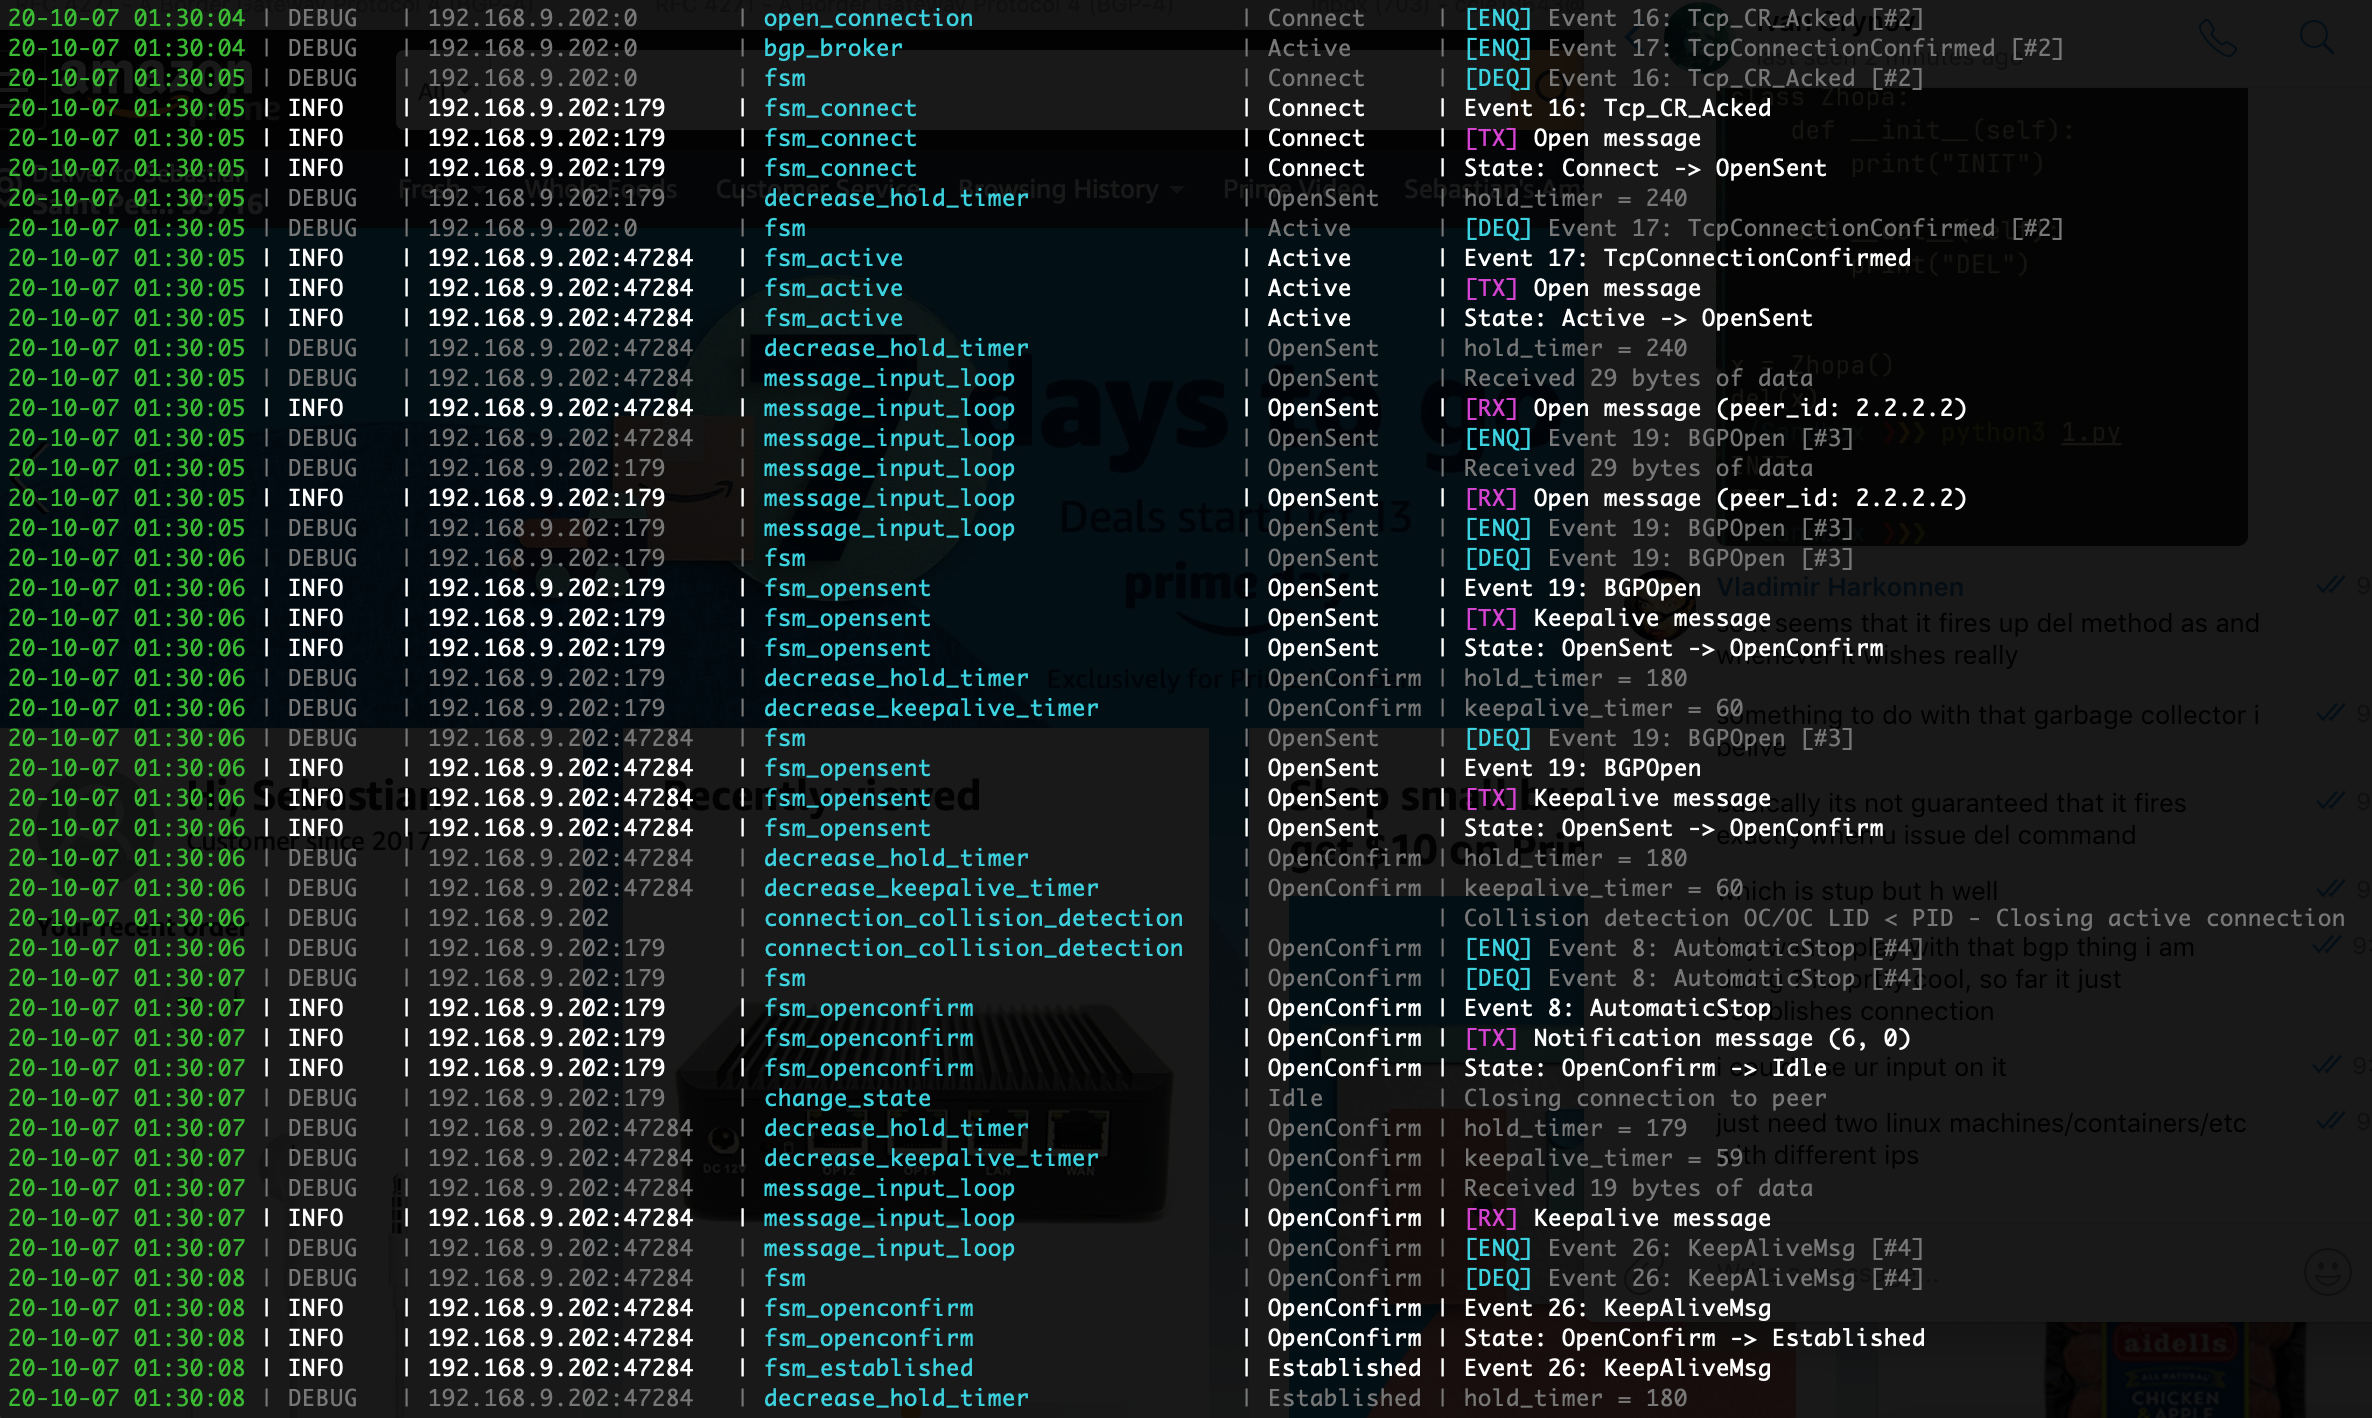
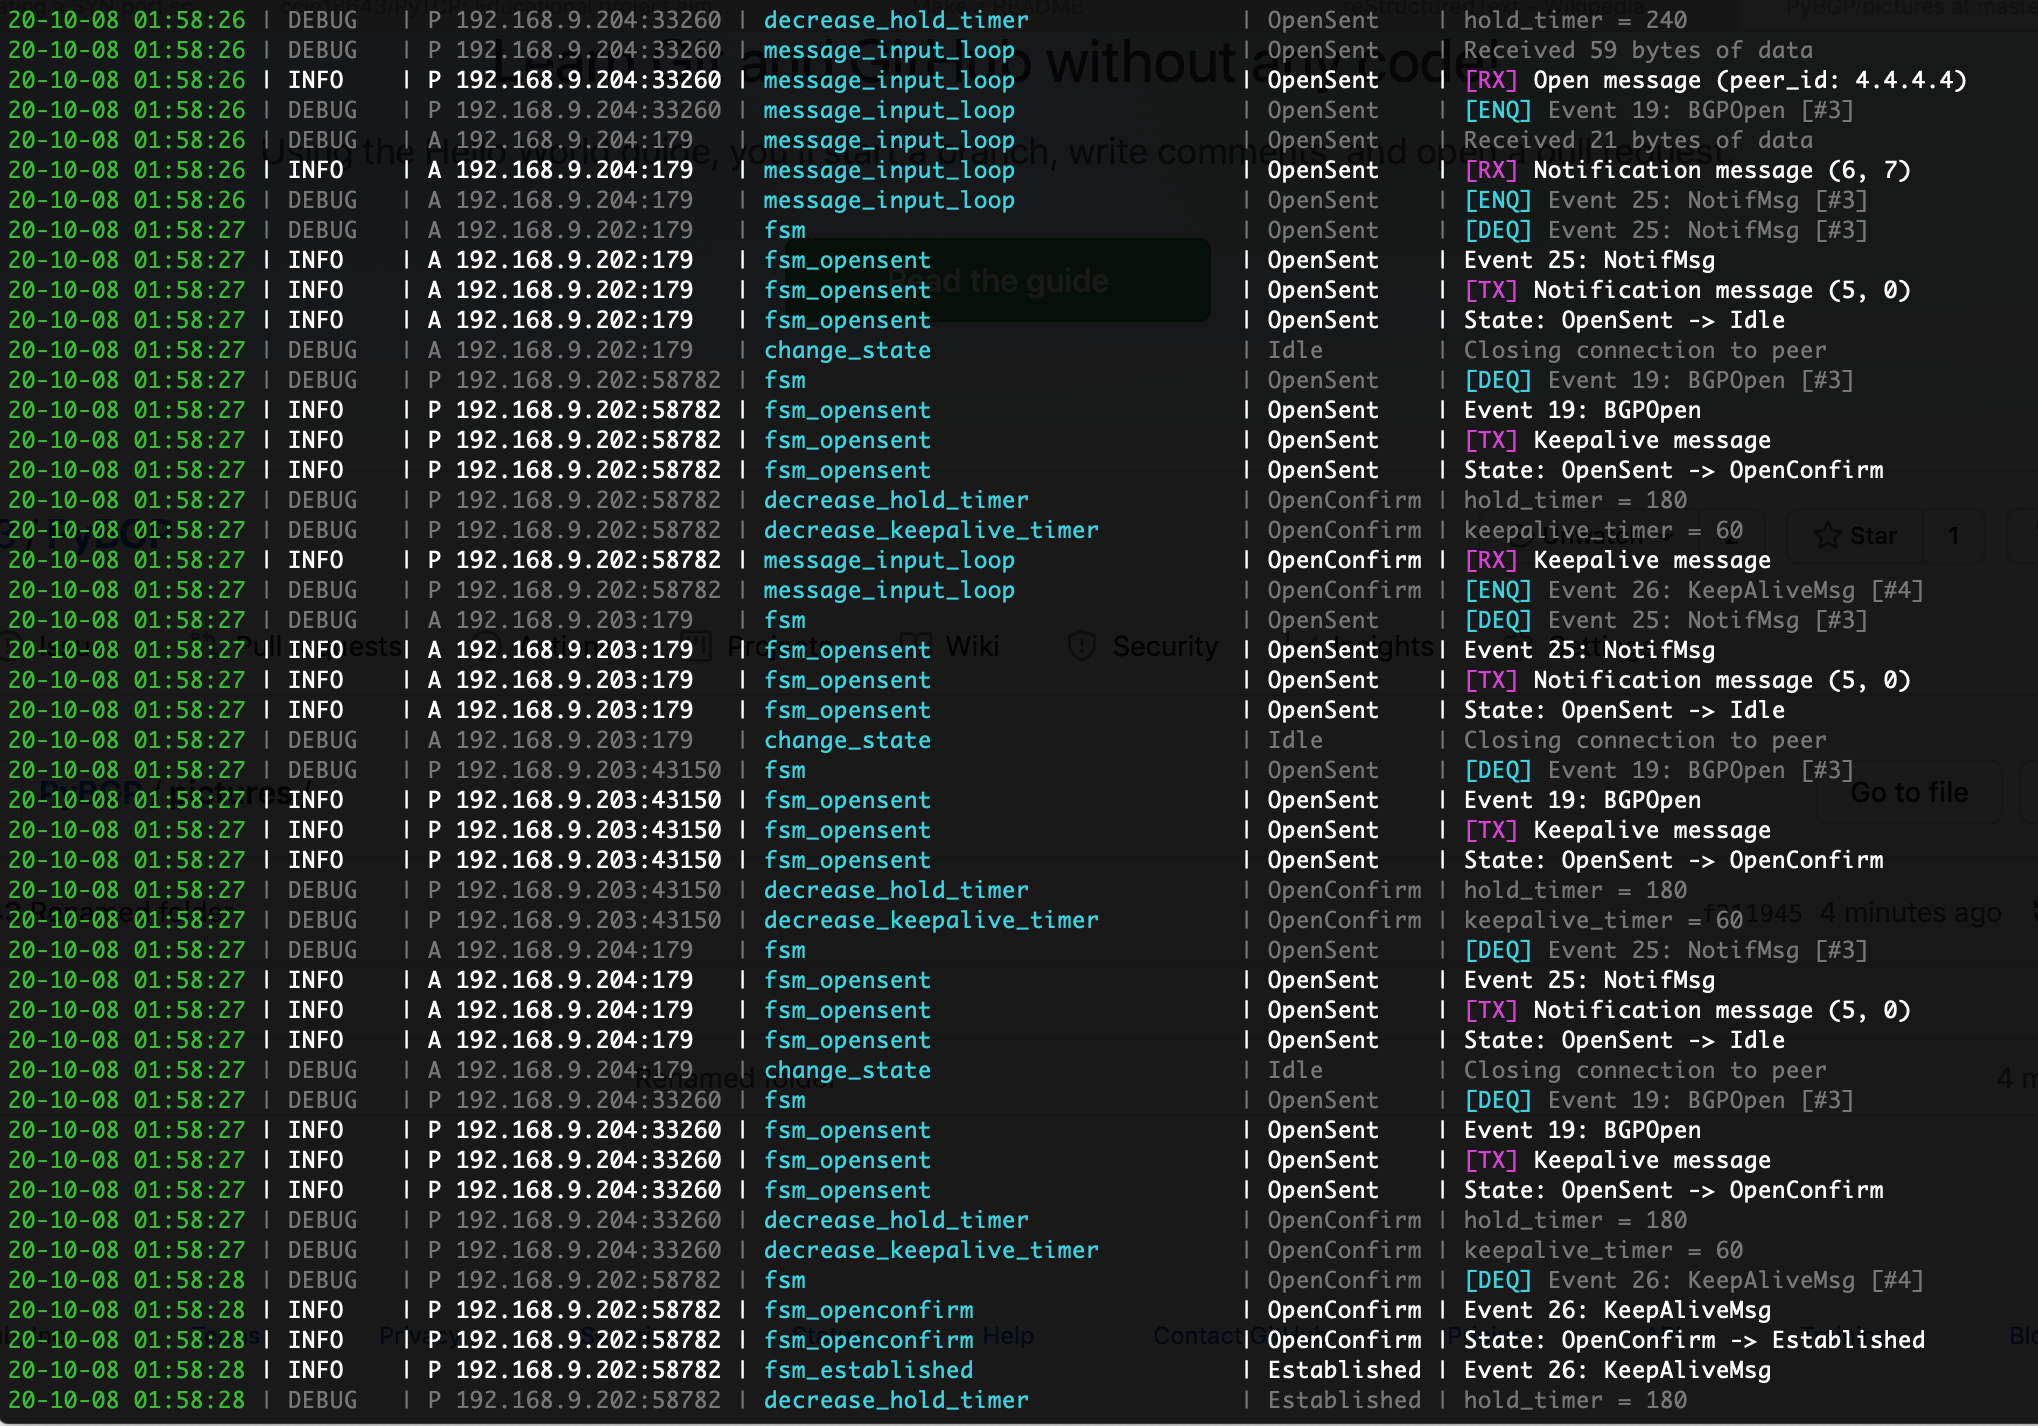
Adding simple project description

Changed region(s): [[0.0, 0.0, 1.0, 1.0], [0.9274, 0.6206, 0.9892, 0.6516], [0.9274, 0.031, 0.9583, 0.0621]]

diff --git a/README.md b/README.md
@@ -1,0 +1,5 @@
+# PyBGP - Python BGP project
+
+Basic BGP implementation in Python for educational purposes. At this time it fully supports Finite State Machine and its able to open and maintain connectivity to BGP peer in either passive or active mode. Connection collision detection is already implemented so its able to drop less desired connection if two of them form simultaneously. Project written in Python using Asyncio. Can support connectivity to multiple peers at the same time. Next to do is implementation of BGP updates.
+
+![Sample PyBGP log output](pictures/ss01.jpg)
